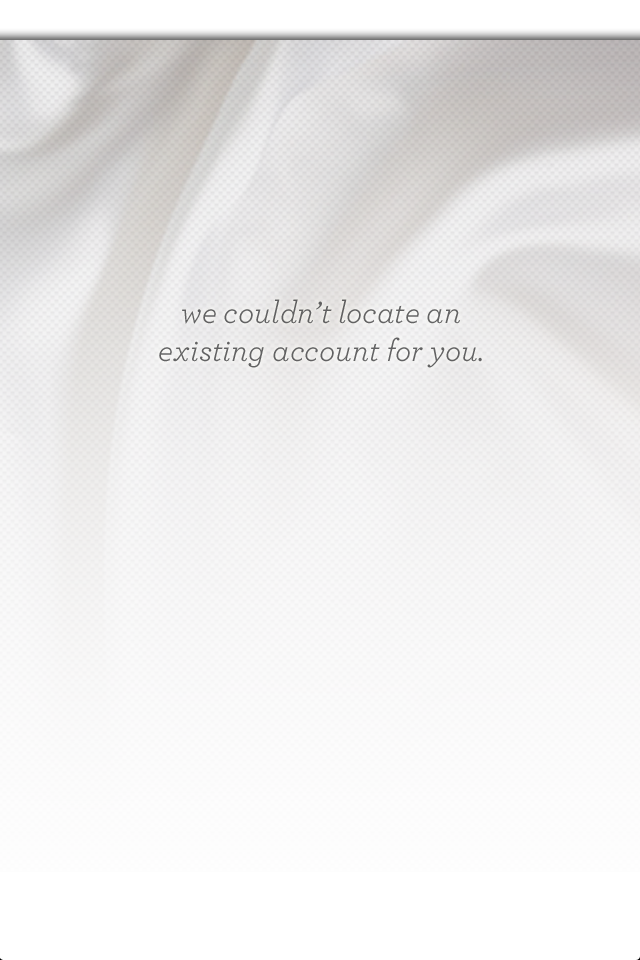
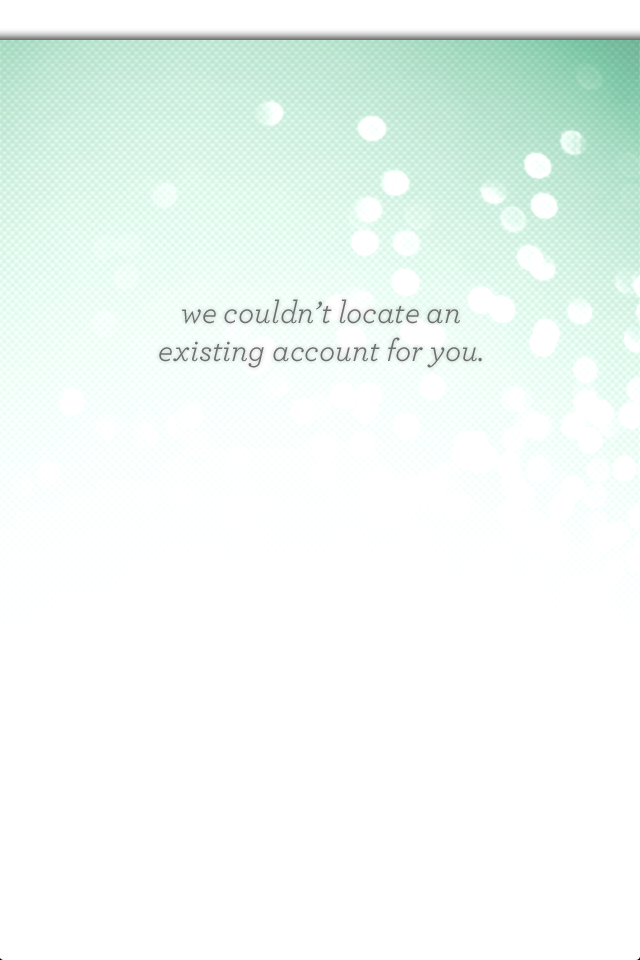
updates to login background screens
- asset swaps for 1.3, 1.4, 1.5, 1.6
- new background asset for 1.8
- updated mockups for above sections

Changed region(s): [[0.0, 0.0312, 1.0, 0.5], [0.6875, 0.375, 0.75, 0.4062]]

diff --git a/Docs/FunctionalSpec.md b/Docs/FunctionalSpec.md
@@ -122,7 +122,7 @@ static image used while app is loading
 #### Mockups
 1.1 Splash ([wireframe](http://invis.io/PC2NYJUX))
 
-<img src="http://assets.gotryiton.com/img/spec/4.0/mockups/1/1.1.Splash.png" width=420px/>
+<img src="http://assets.gotryiton.com/img/spec/4.0/mockups/2/1.1.Splash.png" width=420px/>
 
 #### User flow
 **entry screens:**    
@@ -304,12 +304,12 @@ First time users of the app see a screen where they can sign up
 #### Mockups
 1.3 Sign in ([wireframe](http://invis.io/TW2OBGAK))
 
-<img src="http://assets.gotryiton.com/img/spec/4.0/mockups/2/1.3.Sign.In.First.Use.png" width=420px>
+<img src="http://assets.gotryiton.com/img/spec/4.0/mockups/3/1.3.Sign.In.First.Use.png" width=420px>
 
 
 1.3.1 Sign in with no intro screens 
 
-<img src="http://assets.gotryiton.com/img/spec/4.0/mockups/2/1.9.Sign.In.2nd.Load.png" width=420px>
+<img src="http://assets.gotryiton.com/img/spec/4.0/mockups/3/1.9.Sign.In.2nd.Load.png" width=420px>
 
 #### User flow
 **entry screens:**   
@@ -375,7 +375,7 @@ Returning users can sign in with Facebook or Janrain
 #### Mockups
 1.4 Returning users ([wireframe](http://invis.io/5W2OBHJ7))
 
-<img src="http://assets.gotryiton.com/img/spec/4.0/mockups/1/1.4.Returning.Users.png" width=420px>
+<img src="http://assets.gotryiton.com/img/spec/4.0/mockups/2/1.4.Returning.Users.png" width=420px>
 
 #### User flow
 **entry screens:**   
@@ -438,7 +438,7 @@ New users can sign up with Facebook or Janrain
 
 1.5 Janrain Sign up ([wireframe](http://invis.io/EQ2OBJ6W))
 
-<img src="http://assets.gotryiton.com/img/spec/4.0/mockups/1/1.5.Janrain.Sign.Up.png" width=420px>
+<img src="http://assets.gotryiton.com/img/spec/4.0/mockups/2/1.5.Janrain.Sign.Up.png" width=420px>
 
 #### User flow
 **entry screens:**   
@@ -489,7 +489,7 @@ When a user fails to sign in, they're presented with an error screen allowing th
 
 1.6 Failed sign in ([wireframe](http://invis.io/CR2OBKVK))  
 
-<img src="http://assets.gotryiton.com/img/spec/4.0/mockups/1/1.6.Failed.Sign.In.png" width=420px>
+<img src="http://assets.gotryiton.com/img/spec/4.0/mockups/2/1.6.Failed.Sign.In.png" width=420px>
 
 
 #### API Usage
@@ -613,7 +613,7 @@ When a new user signs up, they can quickly add people to follow
 
 1.8
 
-<img src="http://assets.gotryiton.com/img/spec/4.0/mockups/3/1.8.Quick.Add.png" width=420px>
+<img src="http://assets.gotryiton.com/img/spec/4.0/mockups/4/1.8.Quick.Add.png" width=420px>
 
 scrolled
 
@@ -755,7 +755,7 @@ When a returning (non-logged in) user starts the app, they see a screen asking t
 #### Mockups
 1.9 ([wireframe](http://invis.io/SC2OBNJM))
 
-<img src="http://assets.gotryiton.com/img/spec/4.0/mockups/2/1.9.Sign.In.2nd.Load.png" width=420px/>
+<img src="http://assets.gotryiton.com/img/spec/4.0/mockups/3/1.9.Sign.In.2nd.Load.png" width=420px/>
 
 #### User flow
 **entry screens:**   
